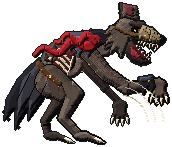
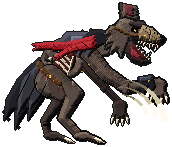
Verger beast: ribbon scarf, crescent slash arcs
Claude-Session: https://claude.ai/code/session_01Jpd5tdDJTR7BVueAYV1KDM

Changed region(s): [[0.1744, 0.1905, 0.6105, 0.4082], [0.6977, 0.5442, 0.9593, 0.8435], [0.814, 0.7075, 0.843, 0.7619]]

diff --git a/ArtSource/make_verger_beast_coat.py b/ArtSource/make_verger_beast_coat.py
@@ -34,14 +34,26 @@ def coat_layers(wrist=(62, 77)):
     cuff.append(cloth(lambda m: PL(m, [(47, 25), (53, 17), (60, 15), (68, 18), (66, 27), (62, 24), (58, 30), (54, 25), (51, 31)]), COATD, 39, depth=2.0))
     # the scarf: flung back off the neck, two torn tails
     import math
-    def tail(x0, y0, x1, wid, sag, phase, seed, drop):
-        n = 14; pts = [(x0 + (x1 - x0) * i / n, y0 + sag * (i / n) ** 1.5 * 10 + 3.2 * math.sin(i * 0.9 + phase) + drop * (i / n)) for i in range(n + 1)]
-        ws = [wid * (1 - 0.65 * (i / n)) + 1 for i in range(n + 1)]
-        a = math.radians(bd.POSE['scarf_rot']); sx, sy = (bd.tf(58, 24, True)[0] - bd.tf(58, 24, False)[0], bd.tf(58, 24, True)[1] - bd.tf(58, 24, False)[1])   # the scarf hangs from the tilted neck but flies by the wind, not with the trunk
-        pts = [(x0 + (x - x0) * math.cos(a) - (y - y0) * math.sin(a) + sx, y0 + (x - x0) * math.sin(a) + (y - y0) * math.cos(a) + sy) for x, y in pts]
-        bd.LIMB = True; m = Mask(S); T(m, pts, ws); bd.LIMB = False; return shade(m, RED, depth=2.0, tex=0.2, seed=seed), pts
-    t1, p1 = tail(57, 23, 16, 6.2, 0.2, 0.0, 40, 3); cuff.append(t1)
-    t2, p2 = tail(56, 22, 30, 3.8, 0.0, 2.4, 41, -3); cuff.append(t2)
+    def ribbon(x0, y0, x1, wid, amp, phase, seed, rise, fork):
+        """a scarf tail: a flat ribbon on a wavy line, wide at the neck and narrowing, the end cut in a swallow-tail; it hangs from the tilted neck but flies by the wind (scarf_rot), not with the trunk"""
+        n = 18; cl = []
+        for i in range(n + 1):
+            t = i / n; cl.append((x0 + (x1 - x0) * t, y0 + rise * t + amp * math.sin(t * 5.2 + phase) * (0.3 + t)))
+        a = math.radians(bd.POSE['scarf_rot']); sx = bd.tf(58, 24, True)[0] - bd.tf(58, 24, False)[0]; sy = bd.tf(58, 24, True)[1] - bd.tf(58, 24, False)[1]
+        cl = [(x0 + (x - x0) * math.cos(a) - (y - y0) * math.sin(a) + sx, y0 + (x - x0) * math.sin(a) + (y - y0) * math.cos(a) + sy) for x, y in cl]
+        top, bot = [], []
+        for i, (x, y) in enumerate(cl):
+            xa, ya = cl[max(0, i - 1)]; xb, yb = cl[min(n, i + 1)]; dx, dy = xb - xa, yb - ya; d = math.hypot(dx, dy) or 1; nx, ny = -dy / d, dx / d
+            w = wid * (1 - 0.55 * i / n) / 2 + 0.5
+            top.append((x + nx * w, y + ny * w)); bot.append((x - nx * w, y - ny * w))
+        # swallow-tail: the last point splits into two prongs
+        xe, ye = cl[-1]; xa, ya = cl[-2]; dx, dy = xe - xa, ye - ya; d = math.hypot(dx, dy) or 1
+        notch = (xe - dx / d * fork, ye - dy / d * fork)
+        poly = top + [(xe + top[-1][0] - xe + 0, ye + top[-1][1] - ye + 0), notch, (bot[-1][0], bot[-1][1])] + bot[::-1]
+        bd.LIMB = True; m = Mask(S); bd.PL(m, poly); bd.LIMB = False
+        return shade(m, RED, depth=1.7, tex=0.16, seed=seed, bias=0.05), cl
+    t1, p1 = ribbon(57, 23, 14, 7.0, 1.6, 0.0, 40, 2, 3.0); cuff.append(t1)
+    t2, p2 = ribbon(56, 25, 28, 5.0, 1.4, 2.2, 41, 6, 2.5); cuff.append(t2)
     global SCARF; SCARF = (p1, p2)
     return back, front, cuff
 def beast(J=None):
@@ -52,8 +64,8 @@ def beast(J=None):
     im.alpha_composite(near)
     for l in cuff: im.alpha_composite(l)
     for pts in SCARF:                                                                                                                           # folds: dark creases across the cloth and lit edges
-        for i in range(3, len(pts) - 1, 3):
-            bd.LIMB = True; x0, y0 = bd.XY(*pts[i]); bd.LIMB = False; px(im, [(x0, y0 - 2 + k) for k in range(0, 5)], RED[1]); px(im, [(x0 + 1, y0 - 2 + k) for k in range(0, 3)], RED[4])
+        for i in range(4, len(pts) - 2, 4):
+            bd.LIMB = True; x0, y0 = bd.XY(*pts[i]); bd.LIMB = False; px(im, [(x0 + k, y0 - 2 + k) for k in range(0, 4)], RED[1]); px(im, [(x0 + k + 1, y0 - 2 + k) for k in range(0, 3)], RED[4])
     # hand-placed detail: the clasp and vials on the belt, buttons, seams down the tail, blood in the hem
     for (x, col) in ((30, RED[3]), (35, RED[2]), (40, RED[3]), (45, RED[2])):
         yy0 = 52 + (x - 27) * 0.39 + 2.2; x0, y0 = bd.XY(x, yy0); px(im, [(x0, y0 + k) for k in range(4)], col); px(im, [(x0, y0 - 1)], BRASS[3])

diff --git a/ArtSource/make_verger_beast_poses.py b/ArtSource/make_verger_beast_poses.py
@@ -13,7 +13,7 @@ OUT = os.path.join(os.path.dirname(os.path.abspath(__file__)), 'mutants_anim', '
 def H(h, w, **kw): return dict(haunch=h, **kw)
 POSES = {
   # galloping, all fours, mid-stride, airborne: the body nearly level, the head up and forward, the hind legs thrown back, the forelegs reaching, the coat and scarf streaming behind
-  'run': dict(pose=dict(tilt=58, pivot=(34, 58), ox=22, oy=-4, head_rot=-34, jaw=20, scarf_rot=10),
+  'run': dict(pose=dict(tilt=58, pivot=(34, 58), ox=22, oy=-4, head_rot=-34, jaw=20, scarf_rot=6),
     J=dict(far=dict(haunch=(34, 62, 8.5, 8.5), leg=[(34, 60), (24, 72), (14, 78), (5, 90)], paw=(7, 92), arm=[(60, 52), (72, 60), (84, 68), (94, 80)], hand=(94, 82)),
            near=dict(haunch=(36, 62, 10.5, 10), leg=[(37, 58), (51, 68), (41, 80), (49, 93)], paw=(52, 94), arm=[(62, 54), (64, 68), (58, 82), (62, 94)], hand=(62, 95)))),
   # the swipe: reared up and leaning in, the head thrust forward with the jaw wide, the near arm swung high and across, the far arm cocked back, the legs braced
@@ -24,12 +24,15 @@ POSES = {
 def draw(name):
     P = POSES[name]; bd.POSE.update(dict(tilt=0.0, pivot=(34, 58), ox=0.0, oy=0.0, head_rot=0.0, jaw=16)); bd.POSE.update(P['pose'])
     im = ct.beast(P['J'])
-    if name == 'attack':                                                                    # the swing's trail: pale arcs sweeping down to the claws, brightest at the hand
-        for k, (r0, ww) in enumerate(((30, 3), (25, 2), (20, 2))):
-            n = 24
-            for i in range(n):
-                t = i / n; ang = np.radians(-78 + 76 * t); x = 82 + r0 * np.cos(ang); y = 90 + r0 * np.sin(ang)
-                for dd in range(ww): px(im, [(int(round((x + bd.POSE['ox']) * bd.K)) + dd, int(round((y + 14) * bd.K)) + dd // 2)], BONE[4 if t > 0.55 else 3 if t > 0.3 else 2])
+    if name == 'attack':                                                                    # the swing: three crescent slashes, thin at the start and thick and white at the claws, each in three bands of brightness
+        bd.LIMB = True
+        for r0, w0, sweep in ((30, 4.2, 78), (25, 3.4, 70), (20, 2.6, 62)):
+            n = 28; ang = lambda t: np.radians(-80 + sweep * t)
+            for lo, hi, col in ((0.0, 0.45, BONE[1]), (0.4, 0.75, BONE[3]), (0.7, 1.0, rgb("#fffaf0"))):
+                outer = [(82 + (r0 + w0 * t) * np.cos(ang(t)), 90 + (r0 + w0 * t) * np.sin(ang(t))) for t in np.linspace(lo, hi, n)]
+                inner = [(82 + (r0 - 0.4) * np.cos(ang(t)), 90 + (r0 - 0.4) * np.sin(ang(t))) for t in np.linspace(hi, lo, n)]
+                m = Mask(bd.S); bd.PL(m, outer + inner); im.alpha_composite(shade(m, [col] * 5, depth=0.5, rim=False))
+        bd.LIMB = False
     bd.POSE.update(dict(tilt=0.0, ox=0.0, oy=0.0, head_rot=0.0, jaw=16)); return im
 if __name__ == "__main__":
     cells = {}

diff --git a/ArtSource/WORK_LOG.md b/ArtSource/WORK_LOG.md
@@ -6862,3 +6862,4 @@ Yan: "give me the concept for that boss we talked about after this". `ArtSource/
 - 9ag beast PART 5: the coat (`make_verger_beast_coat.py` -> `boss_concepts/verger_beast_coat(_5x).png`): ragged tail-coat in two layers, shoulder rags, collar, sleeve cuff with a button, the vial belt with brass clasp, the red scarf flung back. Weak: scarf is a flat slab, shoulder rags barely read, fur one brown everywhere. Concept only.
 - 9ag beast polish: fur tone (back darker, chest/belly warmer), bent near arm with a bony elbow, far arm forward and visible, shoulder rags in a lighter cloth with torn edge (ribs stay visible), scarf as two wavy folded tails. Still weak: scarf reads slightly worm-like, hands/paws cluster at the bottom right. Concept only.
 - 9ag beast poses: run (galloping, level body, head up, hind legs thrown back, coat streaming) and attack (lunge, jaw wide, both arms reaching, swipe arcs) (`make_verger_beast_poses.py` -> `boss_concepts/verger_beast_run.png`, `verger_beast_attack.png`, `verger_beast_poses_4x.png`). Pose machinery added: bd.POSE (tilt about the pelvis, offsets, head turn, jaw, scarf angle), limbs placed per joint. Weak: scarf tangles on the back in the run, swipe arcs are thin dotted lines, one frame per pose. Concept only.
+- 9ag beast fix: the scarf is now a flat ribbon on a wavy line with a swallow-tail end and diagonal creases (not a beaded tube), flying by the wind (POSE scarf_rot) instead of rotating with the trunk; the attack's swipe is three crescent slashes thin at the start and thick and white at the claws. Concept only.
